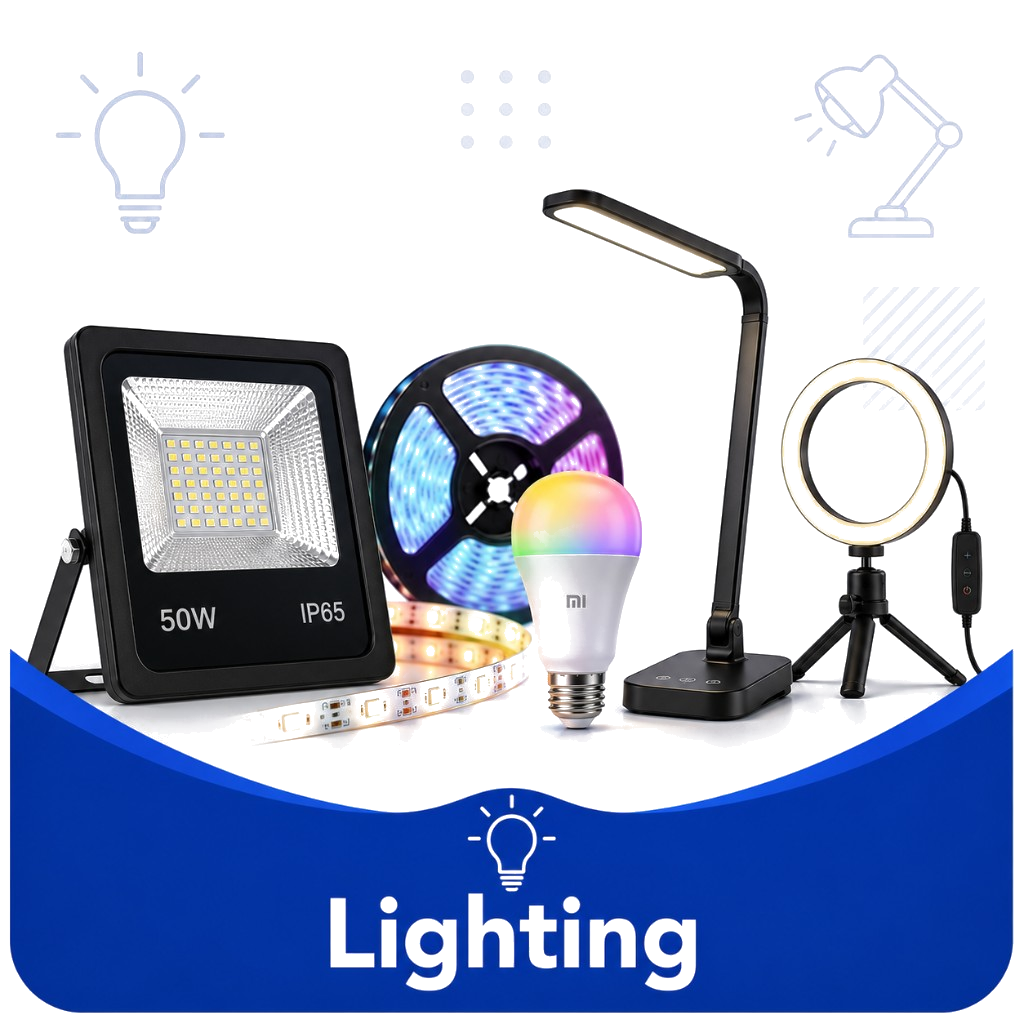
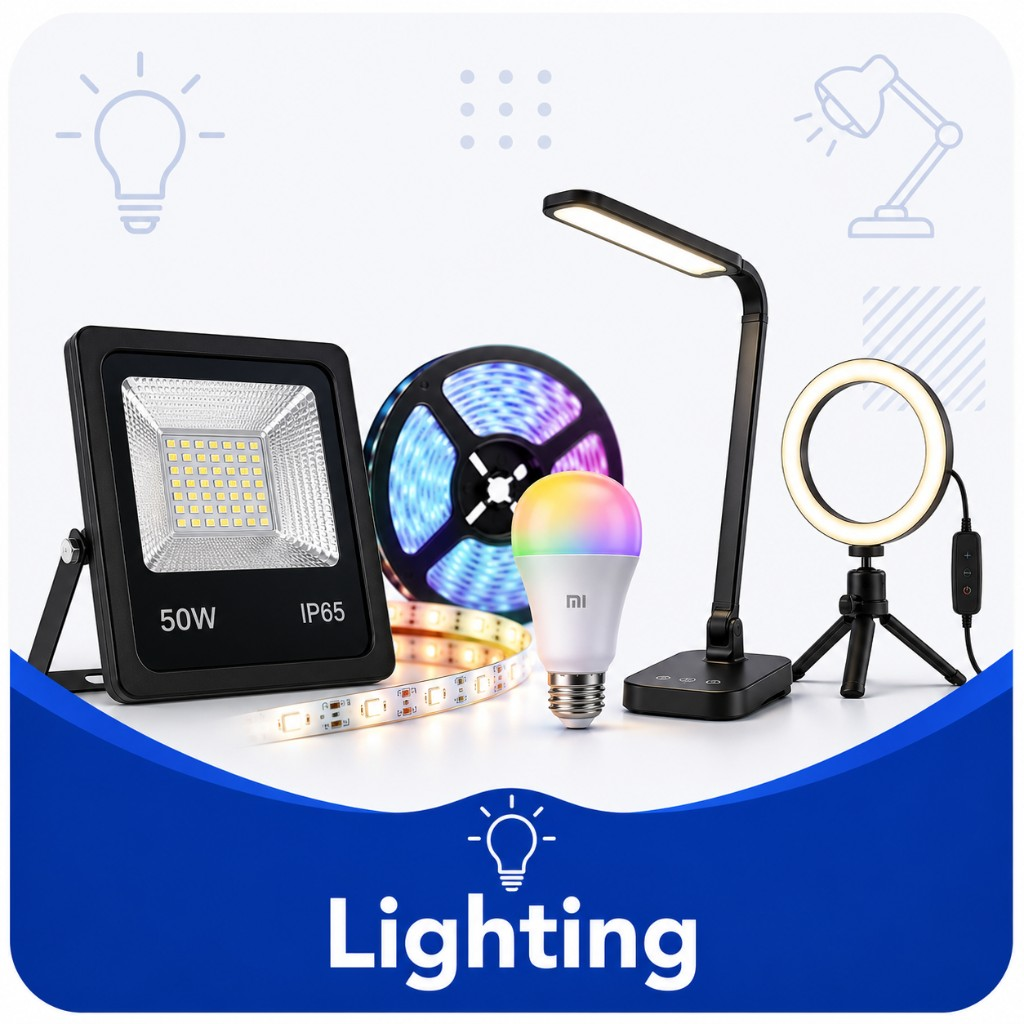
Revert transparent category trial and update Network artwork.
Restore solid Template-2 category images and replace the Network card with the new controller-style Network graphic.

diff --git a/src/components/CategoryRail.jsx b/src/components/CategoryRail.jsx
@@ -69,7 +69,7 @@ const CategoryRail = () => {
                 </div>
             )}
 
-            {/* Transparent category images — ~5.5 visible on phone */}
+            {/* Image-only Template-2 cards — ~5.5 visible on phone */}
             <div
                 className="flex gap-2 overflow-x-auto pb-1.5 px-1 scrollbar-hide snap-x"
                 style={{ direction: 'rtl' }}
@@ -92,30 +92,47 @@ const CategoryRail = () => {
                                 ${isActive ? 'scale-[1.04]' : 'active:scale-[0.98]'}`}
                         >
                             <div
-                                className={`relative w-full aspect-square rounded-2xl overflow-hidden
+                                className={`relative w-full aspect-[3/4] rounded-[14px] overflow-hidden
                                     ${isActive
                                         ? 'ring-2 ring-primary shadow-md'
-                                        : ''}`}
+                                        : darkMode
+                                            ? 'ring-1 ring-white/10'
+                                            : 'ring-1 ring-slate-200/70 shadow-sm'}`}
                             >
                                 {thumb ? (
                                     <img
-                                        src={`${thumb}?v=transparent`}
+                                        src={thumb}
                                         alt=""
-                                        className="absolute inset-0 w-full h-full object-contain object-center p-0.5 bg-transparent"
+                                        className="absolute inset-0 w-full h-full object-cover object-center bg-[#f4f7fb]"
                                         loading="lazy"
                                     />
                                 ) : (
-                                    /* "All" — transparent-friendly icon tile */
-                                    <div className="absolute inset-0 flex items-center justify-center bg-transparent">
-                                        <span className="grid grid-cols-2 gap-1 p-2 rounded-xl bg-primary/10">
-                                            {[0, 1, 2, 3].map((i) => (
-                                                <span
-                                                    key={i}
-                                                    className="w-3.5 h-3.5 rounded-[5px]"
-                                                    style={{ backgroundColor: BRAND_BLUE }}
-                                                />
-                                            ))}
-                                        </span>
+                                    /* "All" — icon only, no text */
+                                    <div className={`absolute inset-0 flex flex-col ${darkMode ? 'bg-slate-800' : 'bg-[#f4f7fb]'}`}>
+                                        <div className="flex-1 flex items-center justify-center">
+                                            <span className="grid grid-cols-2 gap-1">
+                                                {[0, 1, 2, 3].map((i) => (
+                                                    <span
+                                                        key={i}
+                                                        className="w-3.5 h-3.5 rounded-[5px]"
+                                                        style={{ backgroundColor: BRAND_BLUE }}
+                                                    />
+                                                ))}
+                                            </span>
+                                        </div>
+                                        <div
+                                            className="relative h-[28%] shrink-0"
+                                            style={{ backgroundColor: BRAND_BLUE }}
+                                        >
+                                            <svg
+                                                className="absolute left-0 right-0 -top-[10px] w-full h-[11px] pointer-events-none"
+                                                viewBox="0 0 120 16"
+                                                preserveAspectRatio="none"
+                                                aria-hidden
+                                            >
+                                                <path d="M0 16 C30 2 90 2 120 16 L120 16 L0 16 Z" fill={BRAND_BLUE} />
+                                            </svg>
+                                        </div>
                                     </div>
                                 )}
                             </div>

diff --git a/src/pages/CategoriesPage.jsx b/src/pages/CategoriesPage.jsx
@@ -127,9 +127,9 @@ const CategoriesPage = () => {
                                     >
                                         {src ? (
                                             <img
-                                                src={`${src}?v=transparent`}
+                                                src={src}
                                                 alt={label}
-                                                className="absolute inset-0 w-full h-full object-contain object-center p-1 bg-transparent transition-transform duration-300 group-hover:scale-[1.03]"
+                                                className="absolute inset-0 w-full h-full object-cover transition-transform duration-300 group-hover:scale-[1.03]"
                                                 loading="lazy"
                                             />
                                         ) : (
